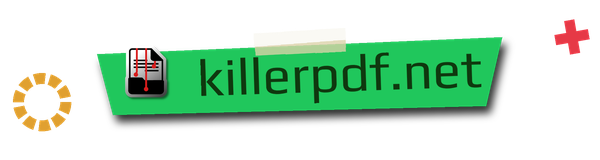
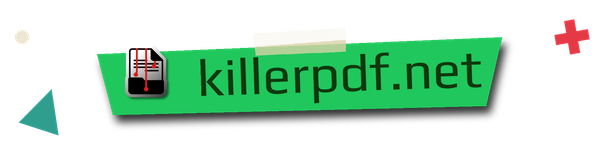
Fill the profile title gap and vary the lower-left accents

Changed region(s): [[0.0, 0.4375, 0.12, 0.8438], [0.0, 0.1875, 0.06, 0.2812]]

diff --git a/scripts/build-art.py b/scripts/build-art.py
@@ -186,6 +186,13 @@ def header(fonts,smiley,out):
     polygon(layer,[(0,0),(88,0),(88,22),(0,22)],BONE)
     place(image,layer,1470,61,12)
 
+    ring(image,745,318,70,'#2f9e8f',10)
+    wave(image,917,373,116,'#e63946')
+    triangle(image,1118,320,64,'#e0a030',16)
+    plus(image,1335,355,48,'#3f8efc',-14)
+    halftone(image,1492,306,62,'#8e5ba8')
+    ellipse(image,(1223,406,1243,426),BONE)
+
     # The existing paper angles, colors, and positions form the profile lockup.
     layer=canvas(304,302)
     polygon(layer,[(0,0),(304,0),(302,302),(1,301)],BONE)
@@ -230,7 +237,7 @@ def notes(fonts,repos,smiley,out):
         elif i==2:
             triangle(image,27,97,38,'#3f8efc',16); ring(image,537,16,47,'#2f9e8f',10); plus(image,544,111,33,'#e0a030',-20)
         elif i==3:
-            ring(image,13,73,58,'#e0a030',11,True); plus(image,555,20,34,'#e63946',10)
+            triangle(image,24,88,42,'#2f9e8f',-18); ellipse(image,(15,30,29,44),BONE); plus(image,555,20,34,'#e63946',10)
         elif i==4:
             wave(image,19,43,49,'#7bc950'); halftone(image,533,86,54,'#3f8efc')
         elif i==5:
